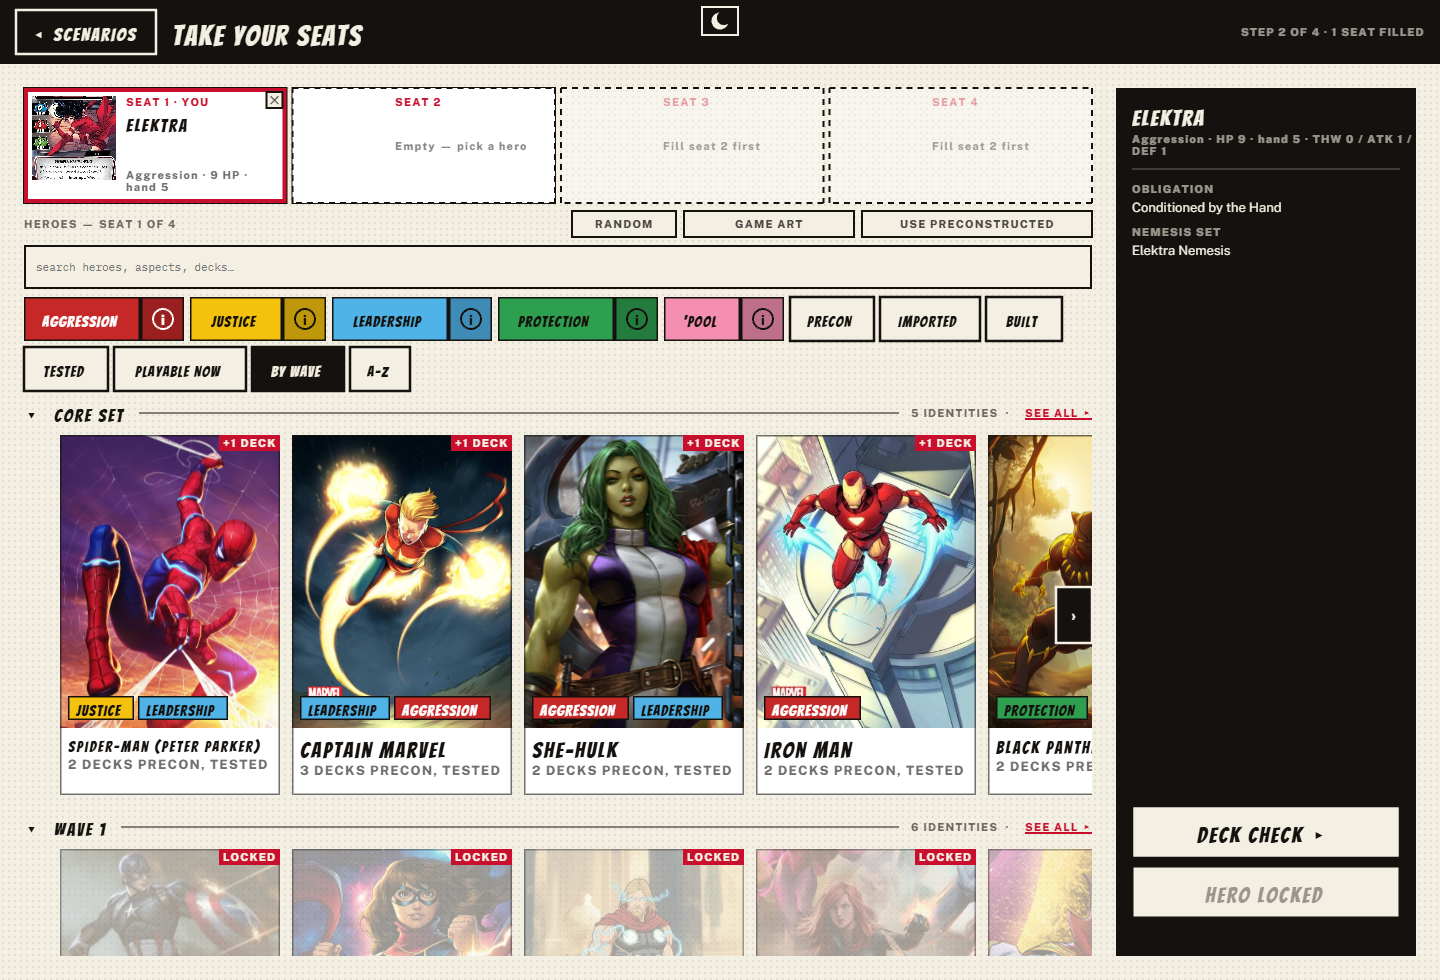
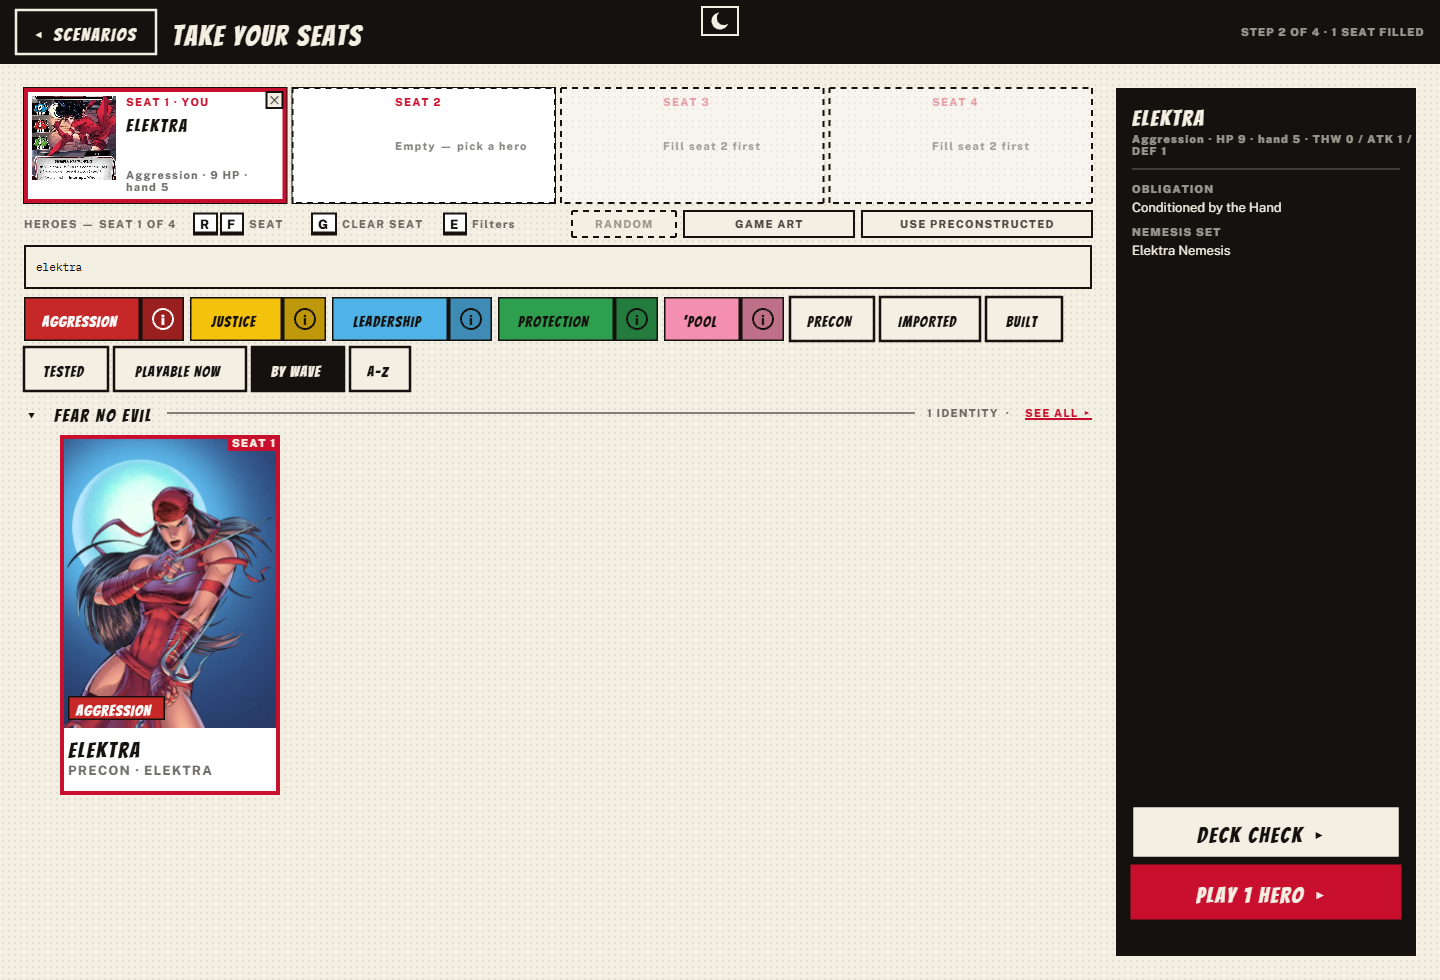
List the Elektra and Iron Fist packs in the client pool so both heroes show on Take your seats; new screenshots

diff --git a/packages/client/src/content/pool.test.ts b/packages/client/src/content/pool.test.ts
@@ -168,14 +168,16 @@ describe("packNameOf", () => {
   });
 
   test("POOL_PACKS covers Core and every wave 1, cycle 1, cycle 2, cycle 3 and cycle 4 (shipped-so-far) cycle 6 to cycle 10 pack (Civil War, Synthezoid Smackdown), with no duplicate codes", () => {
-    expect(POOL_PACKS.length).toBe(64);
-    expect(new Set(POOL_PACKS.map((p) => p.code as string)).size).toBe(64);
+    expect(POOL_PACKS.length).toBe(66);
+    expect(new Set(POOL_PACKS.map((p) => p.code as string)).size).toBe(66);
     expect(packNameOf("cw")).toBe("Civil War");
     expect(packNameOf("synthezoid")).toBe("Synthezoid Smackdown");
     expect(packNameOf("wonder_man")).toBe("Wonder Man");
     expect(packNameOf("hercules")).toBe("Hercules");
     expect(packNameOf("jj")).toBe("Jessica Jones");
     expect(packNameOf("luke_cage")).toBe("Luke Cage");
+    expect(packNameOf("elektra")).toBe("Elektra");
+    expect(packNameOf("iron_fist")).toBe("Iron Fist");
     expect(packNameOf("shadowland")).toBe("Shadowland");
   });
 });

diff --git a/packages/client/src/content/pool.ts b/packages/client/src/content/pool.ts
@@ -182,6 +182,10 @@ import {
   JJ_STARTER_DECKS,
   LUKE_CAGE_CYCLE,
   LUKE_CAGE_PACK,
+  ELEKTRA_CYCLE,
+  ELEKTRA_PACK,
+  IRON_FIST_CYCLE,
+  IRON_FIST_PACK,
   LUKE_CAGE_STARTER_DECKS,
   ELEKTRA_STARTER_DECKS,
   IRON_FIST_STARTER_DECKS,
@@ -572,6 +576,8 @@ export const POOL_PACKS: readonly Pack[] = [
   FNE_PACK,
   JJ_PACK,
   LUKE_CAGE_PACK,
+  ELEKTRA_PACK,
+  IRON_FIST_PACK,
   SHADOWLAND_PACK,
 ];
 
@@ -654,6 +660,8 @@ const POOL_PACK_CYCLES: readonly (readonly [Pack, Cycle])[] = [
   [FNE_PACK, FNE_CYCLE],
   [JJ_PACK, JJ_CYCLE],
   [LUKE_CAGE_PACK, LUKE_CAGE_CYCLE],
+  [ELEKTRA_PACK, ELEKTRA_CYCLE],
+  [IRON_FIST_PACK, IRON_FIST_CYCLE],
   [SHADOWLAND_PACK, SHADOWLAND_CYCLE],
 ];
 
